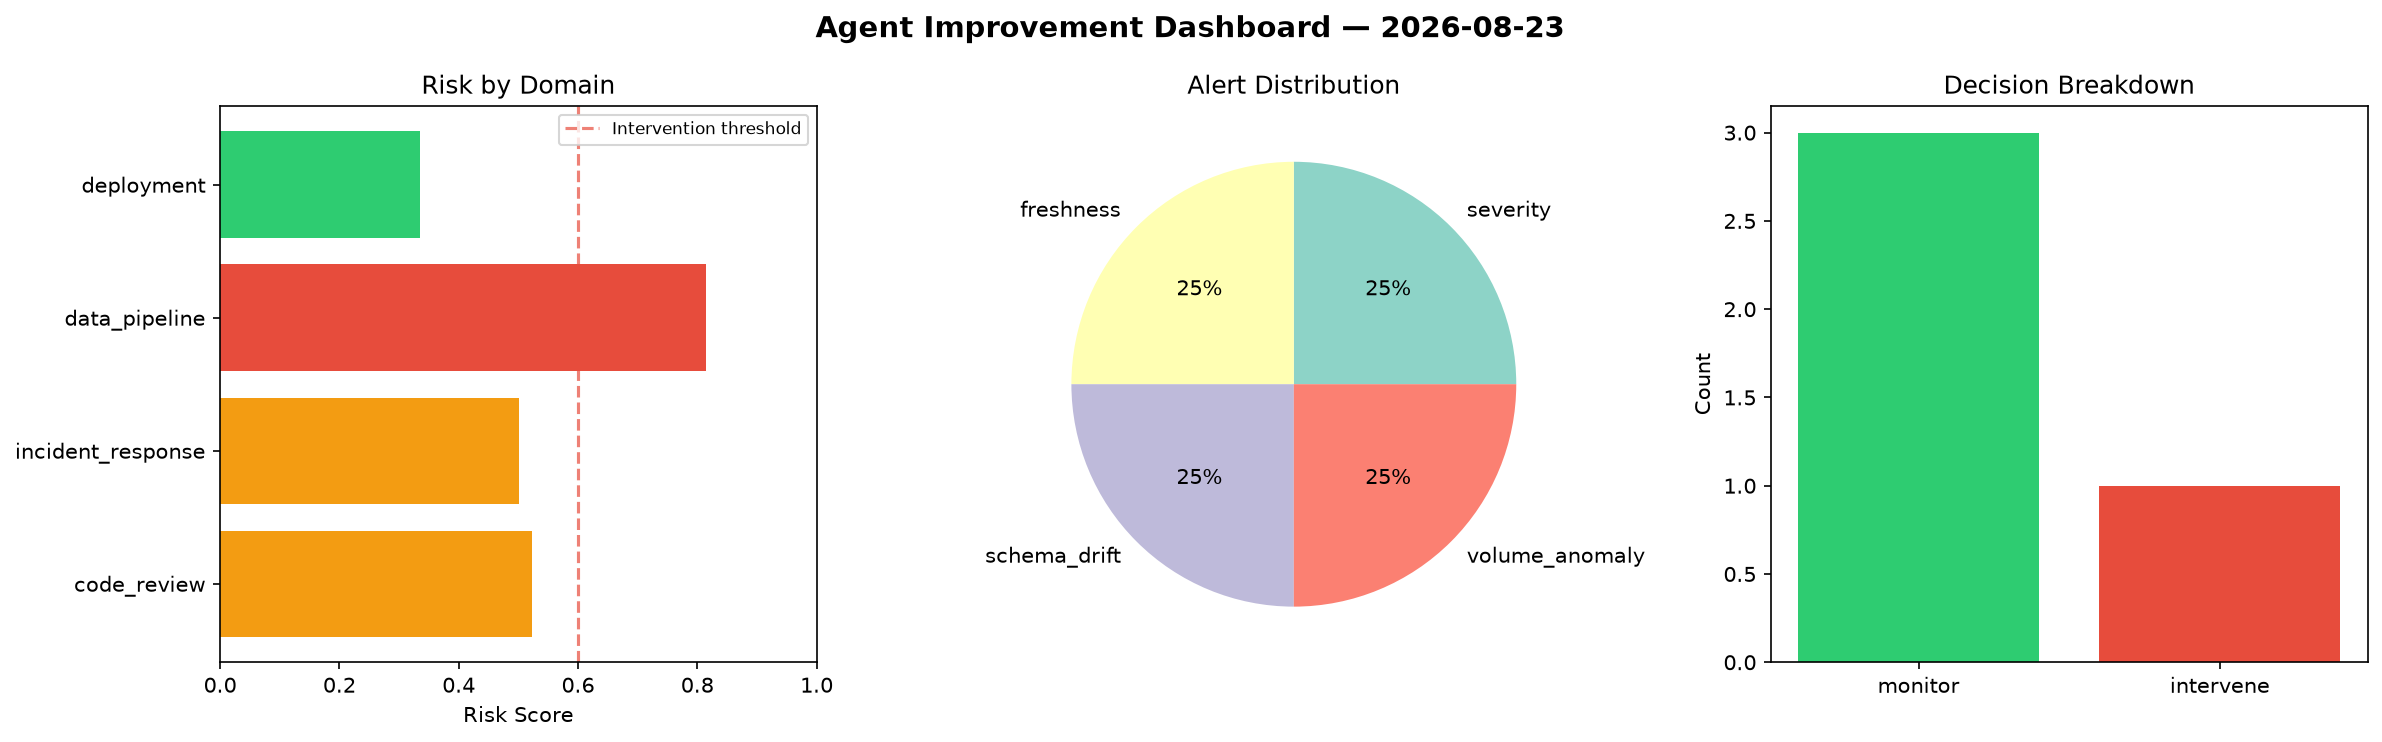
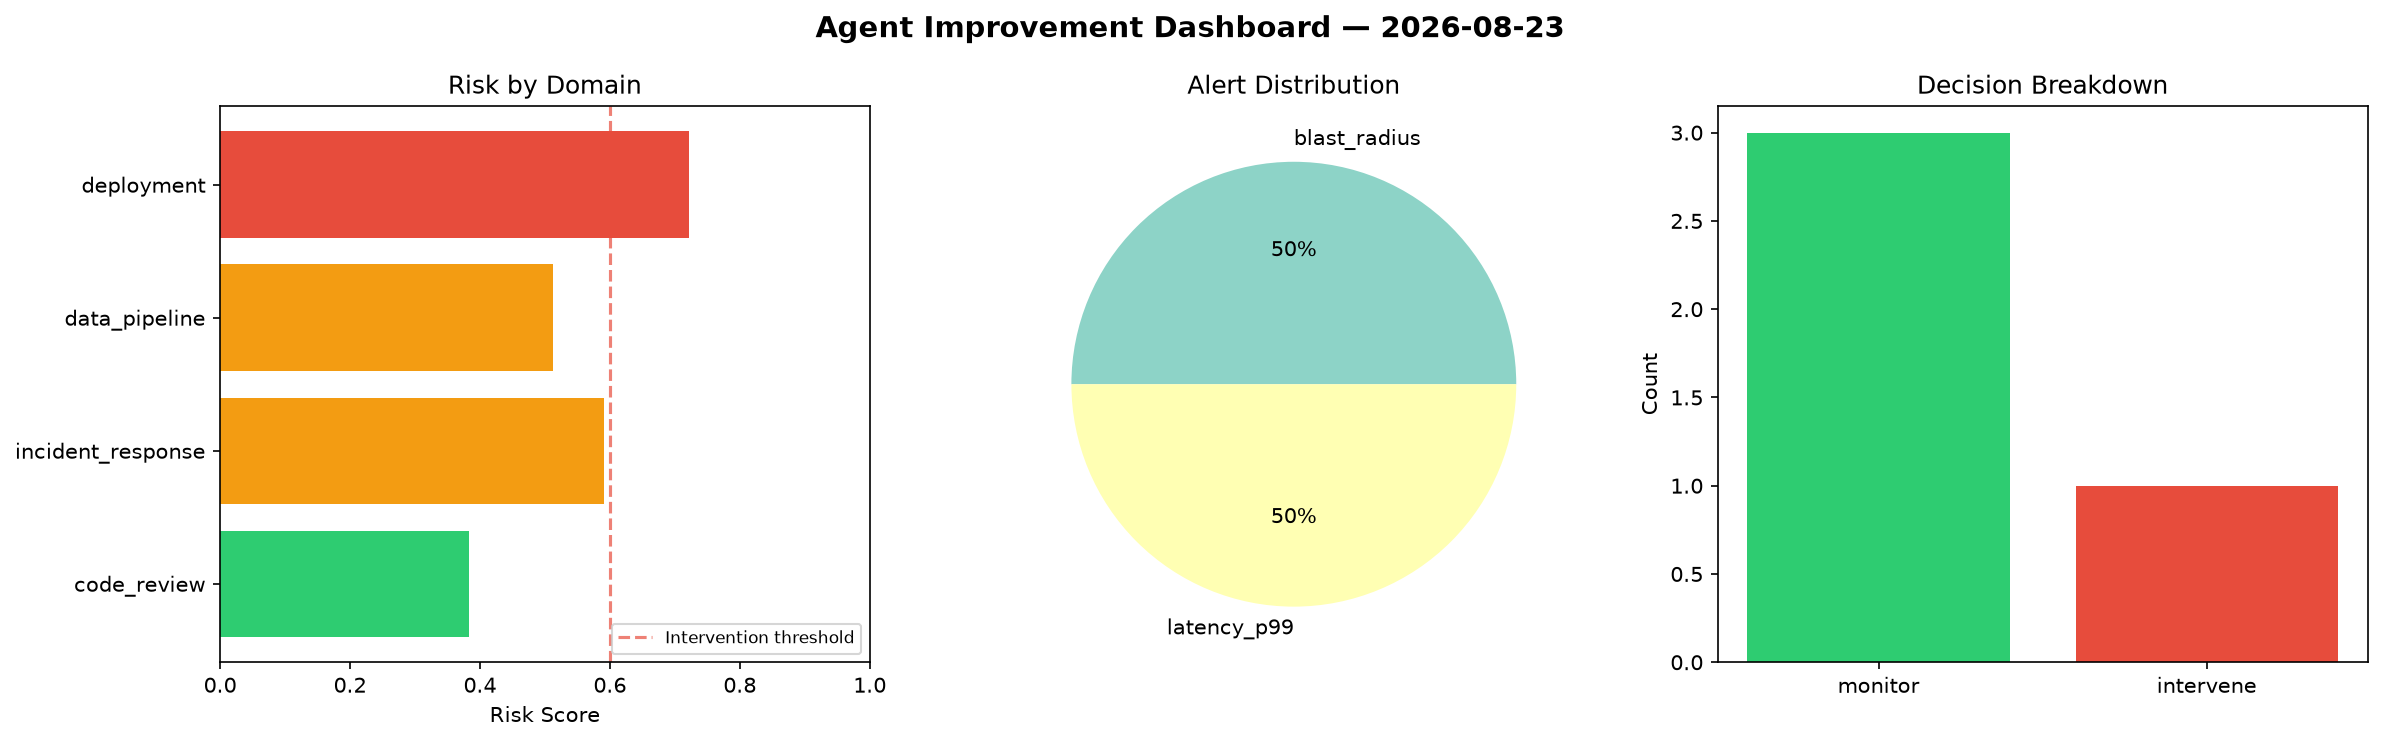
agent-improvement: daily cycle 2026-08-23T08:47

diff --git a/logs/2026-08-23.md b/logs/2026-08-23.md
@@ -1,6 +1,6 @@
 # Agent Improvement Report — 2026-08-23
 
-**Cycle ID:** `caa84399` | **Avg Risk:** 0.5432 | **Interventions:** 1/4
+**Cycle ID:** `8d81eae1` | **Avg Risk:** 0.5517 | **Interventions:** 1/4
 
 ![Dashboard](2026-08-23_dashboard.png)
 
@@ -10,18 +10,18 @@
 
 | Domain | Risk Score | Decision | Alerts |
 |--------|-----------|----------|--------|
-| code_review | 0.5228 | monitor | none |
-| incident_response | 0.5007 | monitor | severity |
-| data_pipeline | 0.8146 | intervene | freshness, schema_drift, volume_anomaly |
-| deployment | 0.3347 | monitor | none |
+| code_review | 0.3831 | monitor | none |
+| incident_response | 0.5903 | monitor | blast_radius |
+| data_pipeline | 0.5122 | monitor | none |
+| deployment | 0.7212 | intervene | latency_p99 |
 
 ## Delta vs Yesterday
 
 | Domain | Today | Yesterday | Change |
 |--------|-------|-----------|--------|
-| code_review | 0.5228 | 0.4906 | 📈 6.6% |
-| incident_response | 0.5007 | 0.337 | 📈 48.6% |
-| data_pipeline | 0.8146 | 0.6645 | 📈 22.6% |
-| deployment | 0.3347 | 0.4008 | 📉 -16.5% |
+| code_review | 0.3831 | 0.4906 | 📉 -21.9% |
+| incident_response | 0.5903 | 0.337 | 📈 75.2% |
+| data_pipeline | 0.5122 | 0.6645 | 📉 -22.9% |
+| deployment | 0.7212 | 0.4008 | 📈 79.9% |
 
-**Refinement:** `{'adjustment': 'maintain', 'trend': 'improving', 'window': 4}`
+**Refinement:** `{'adjustment': 'tighten_thresholds', 'trend': 'degrading', 'window': 4}`
